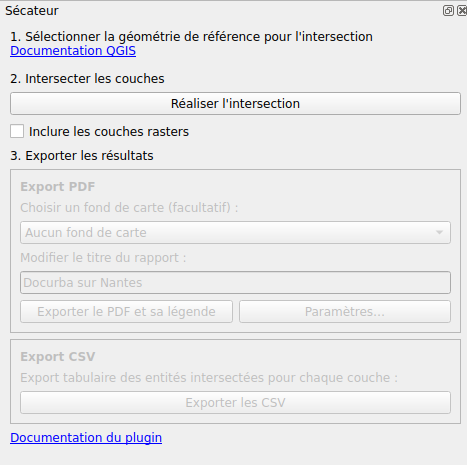
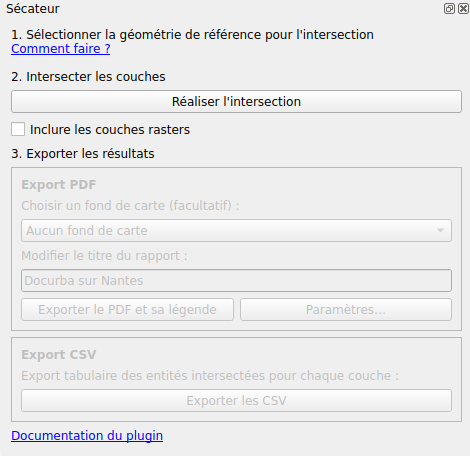
* Changed workflow.gif * Changed secateur_panel.png * Updated content table * Linked to module_dependency_graph.md

diff --git a/README.md b/README.md
@@ -37,23 +37,23 @@ Plugin QGIS d'intersection spatiale automatique pour l'analyse territoriale et l
 ## 📖 Sommaire
 
 1. [⚡ Quick Start](#-quick-start)
-3. [🎯 Présentation](#-présentation)
-4. [👥 Contexte et besoin métier](#contexte-et-besoin-métier)
-5. [✂️ Fonctionnalités](#-fonctionnalités)
+2. [🎯 Présentation](#-présentation)
+3. [👥 Contexte et besoin métier](#contexte-et-besoin-métier)
+4. [✂️ Fonctionnalités](#-fonctionnalités)
    - [✨ Fonctionnalités clefs](#-fonctionnalités-clefs)
    - [Intersection spatiale automatique](#intersection-spatiale-automatique)
    - [Gestion automatique des groupes QGIS](#gestion-automatique-des-groupes-qgis)
    - [Export CSV](#export-csv)
-   - [Export Geo](#export-pdf)
+   - [Export PDF](#export-pdf)
    - [Compatibilité données](#compatibilité-données)
-6. [🌱 Prérequis](#prérequis)
+5. [🌱 Prérequis](#prérequis)
    - [Logiciels](#logiciels)
    - [Données](#données)
    - [Dépendances Python](#dépendances-python)
-7. [📦 Installation](#-installation)
+6. [📦 Installation](#installation)
    - [Depuis le ZIP](#depuis-le-zip)
    - [Depuis les sources](#depuis-les-sources)
-8. [🚀 Utilisation détaillée](#-utilisation-détaillée)
+7. [🚀 Utilisation détaillée](#-utilisation-détaillée)
    - [1. Charger un projet QGIS](#1-charger-un-projet-qgis)
    - [2. Ouvrir le panneau Sécateur](#2-ouvrir-le-panneau-sécateur)
    - [3. Sélectionner une entité](#3-sélectionner-une-entité)
@@ -61,27 +61,27 @@ Plugin QGIS d'intersection spatiale automatique pour l'analyse territoriale et l
    - [5. Exporter les résultats](#5-exporter-les-résultats)
    - [Workflow détaillé](#workflow-détaillé)
    - [Export PDF](#export-pdf)
-9. [🎨 Personnalisation des modèles QPT](#-personnalisation-des-modèles-qpt)
+8. [🎨 Personnalisation des modèles QPT](#-personnalisation-des-modèles-qpt)
    - [Modifier un modèle](#modifier-un-modèle)
    - [IDs obligatoires](#ids-obligatoires)
-10. [🏗️ Architecture technique](#️-architecture-technique)
-    - [Structure du projet](#structure-du-projet)
-    - [Architecture logicielle](#architecture-logicielle)
-    - [Couches principales](#couches-principales)
-    - [Traitements QGIS utilisés](#traitements-qgis-utilisés)
-    - [Gestion CRS](#gestion-crs)
-    - [Logs](#logs)
-    - [Diagramme de séquence](#diagramme-de-séquence)
-    - [Diagramme](#diagramme)
-11. [🛠️ Développement](#️-développement)
-    - [Rechargement rapide](#rechargement-rapide)
-    - [Installation environnement](#installation-environnement)
-    - [Qualité de code](#qualité-de-code)
-    - [Packaging](#packaging)
-12. [🧯 Dépannage](#-dépannage)
-13. [Limitations connues](#limitations-connues)
-14. [🙏 Remerciements](#-remerciements)
-15. [🧭 Crédit](#-crédit)
+9. [🏗️ Architecture technique](#architecture-technique)
+   - [Structure du projet](#structure-du-projet)
+   - [Architecture logicielle](#architecture-logicielle)
+   - [Couches principales](#couches-principales)
+   - [Traitements QGIS utilisés](#traitements-qgis-utilisés)
+   - [Gestion CRS](#gestion-crs)
+   - [Logs](#logs)
+   - [Diagramme de séquence](#diagramme-de-séquence)
+   - [Diagramme](#diagramme)
+10. [🛠️ Développement](#développement)
+   - [Rechargement rapide](#rechargement-rapide)
+   - [Installation environnement](#installation-environnement)
+   - [Qualité de code](#qualité-de-code)
+   - [Packaging](#packaging)
+11. [🧯 Dépannage](#dépannage)
+12. [Limitations connues](#limitations-connues)
+13. [🙏 Remerciements](#remerciements)
+14. [🧭 Crédit](#crédit)
 
 
 # 🎯Présentation
@@ -626,6 +626,8 @@ Le plugin suit une architecture :
 |`core/constants.py`|Constantes du plugin|
 |`core/logger.py`|Gestion des logs|
 |`core/image_manager.py`|Gestion des images|
+
+[Diagramme des dépendances des modules](docs/module_dependency_graph.md)
 
 
 